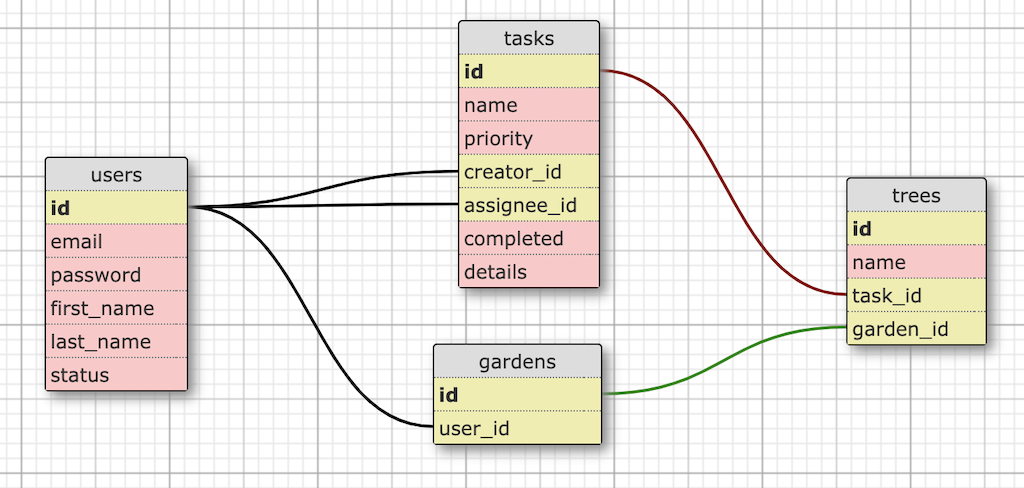
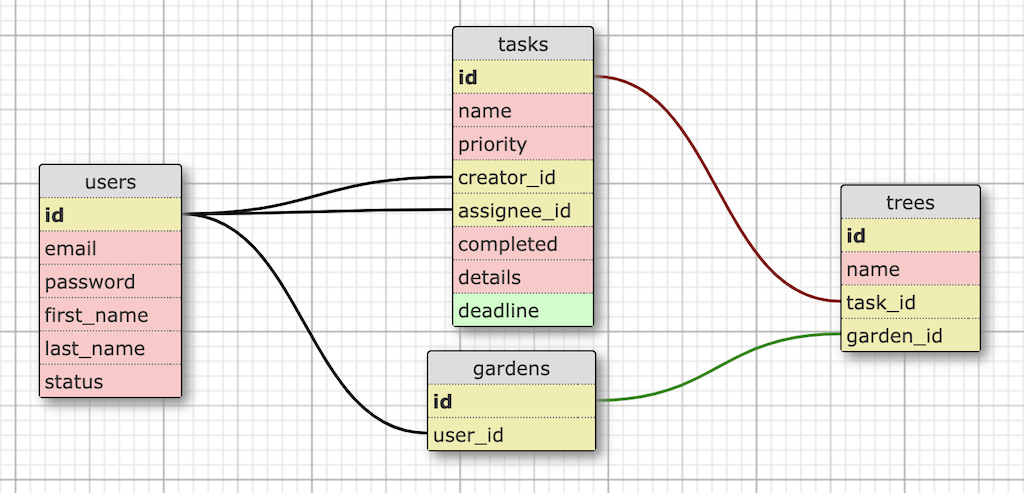
Task Datepicker for Deadline

Changed region(s): [[0.0, 0.0, 1.0, 1.0], [0.7812, 0.1844, 0.8438, 0.2459], [0.0625, 0.1844, 0.0938, 0.2459]]

diff --git a/app/javascript/controllers/datepicker_controller.js b/app/javascript/controllers/datepicker_controller.js
@@ -1,0 +1,15 @@
+import { Controller } from "@hotwired/stimulus"
+import flatpickr from "flatpickr";
+
+// Connects to data-controller="datepicker"
+export default class extends Controller {
+  connect() {
+    flatpickr(this.element, {
+      altInput: true,
+      altFormat: "l, F j, Y at H:i",
+      time_24hr: true,
+      minDate: "today",
+      enableTime: true,
+      weekNumbers: true })
+  }
+}

diff --git a/db/schema.rb b/db/schema.rb
@@ -10,7 +10,7 @@
 #
 # It's strongly recommended that you check this file into your version control system.
 
-ActiveRecord::Schema[7.1].define(version: 2023_12_04_084501) do
+ActiveRecord::Schema[7.1].define(version: 2023_12_04_092128) do
   # These are extensions that must be enabled in order to support this database
   enable_extension "plpgsql"
 
@@ -58,6 +58,7 @@ ActiveRecord::Schema[7.1].define(version: 2023_12_04_084501) do
     t.datetime "updated_at", null: false
     t.boolean "completed"
     t.text "details"
+    t.datetime "deadline"
     t.index ["assignee_id"], name: "index_tasks_on_assignee_id"
     t.index ["creator_id"], name: "index_tasks_on_creator_id"
   end

diff --git a/app/controllers/tasks_controller.rb b/app/controllers/tasks_controller.rb
@@ -72,6 +72,6 @@ class TasksController < ApplicationController
 
   # Only allow a list of trusted parameters through.
   def task_params
-    params.require(:task).permit(:name, :details, :priority, :completed, :creator_id, :assignee_id)
+    params.require(:task).permit(:name, :details, :priority, :deadline, :completed, :creator_id, :assignee_id)
   end
 end

diff --git a/config/importmap.rb b/config/importmap.rb
@@ -8,3 +8,4 @@ pin_all_from 'app/javascript/controllers', under: 'controllers'
 pin 'bootstrap', to: 'bootstrap.min.js', preload: true
 pin '@popperjs/core', to: 'popper.js', preload: true
 pin_all_from 'app/javascript', under: 'src'
+pin "flatpickr", to: "https://ga.jspm.io/npm:flatpickr@4.6.13/dist/esm/index.js"

diff --git a/db/migrate/20231204092128_add_deadline_to_tasks.rb b/db/migrate/20231204092128_add_deadline_to_tasks.rb
@@ -1,0 +1,5 @@
+class AddDeadlineToTasks < ActiveRecord::Migration[7.1]
+  def change
+    add_column :tasks, :deadline, :datetime
+  end
+end
